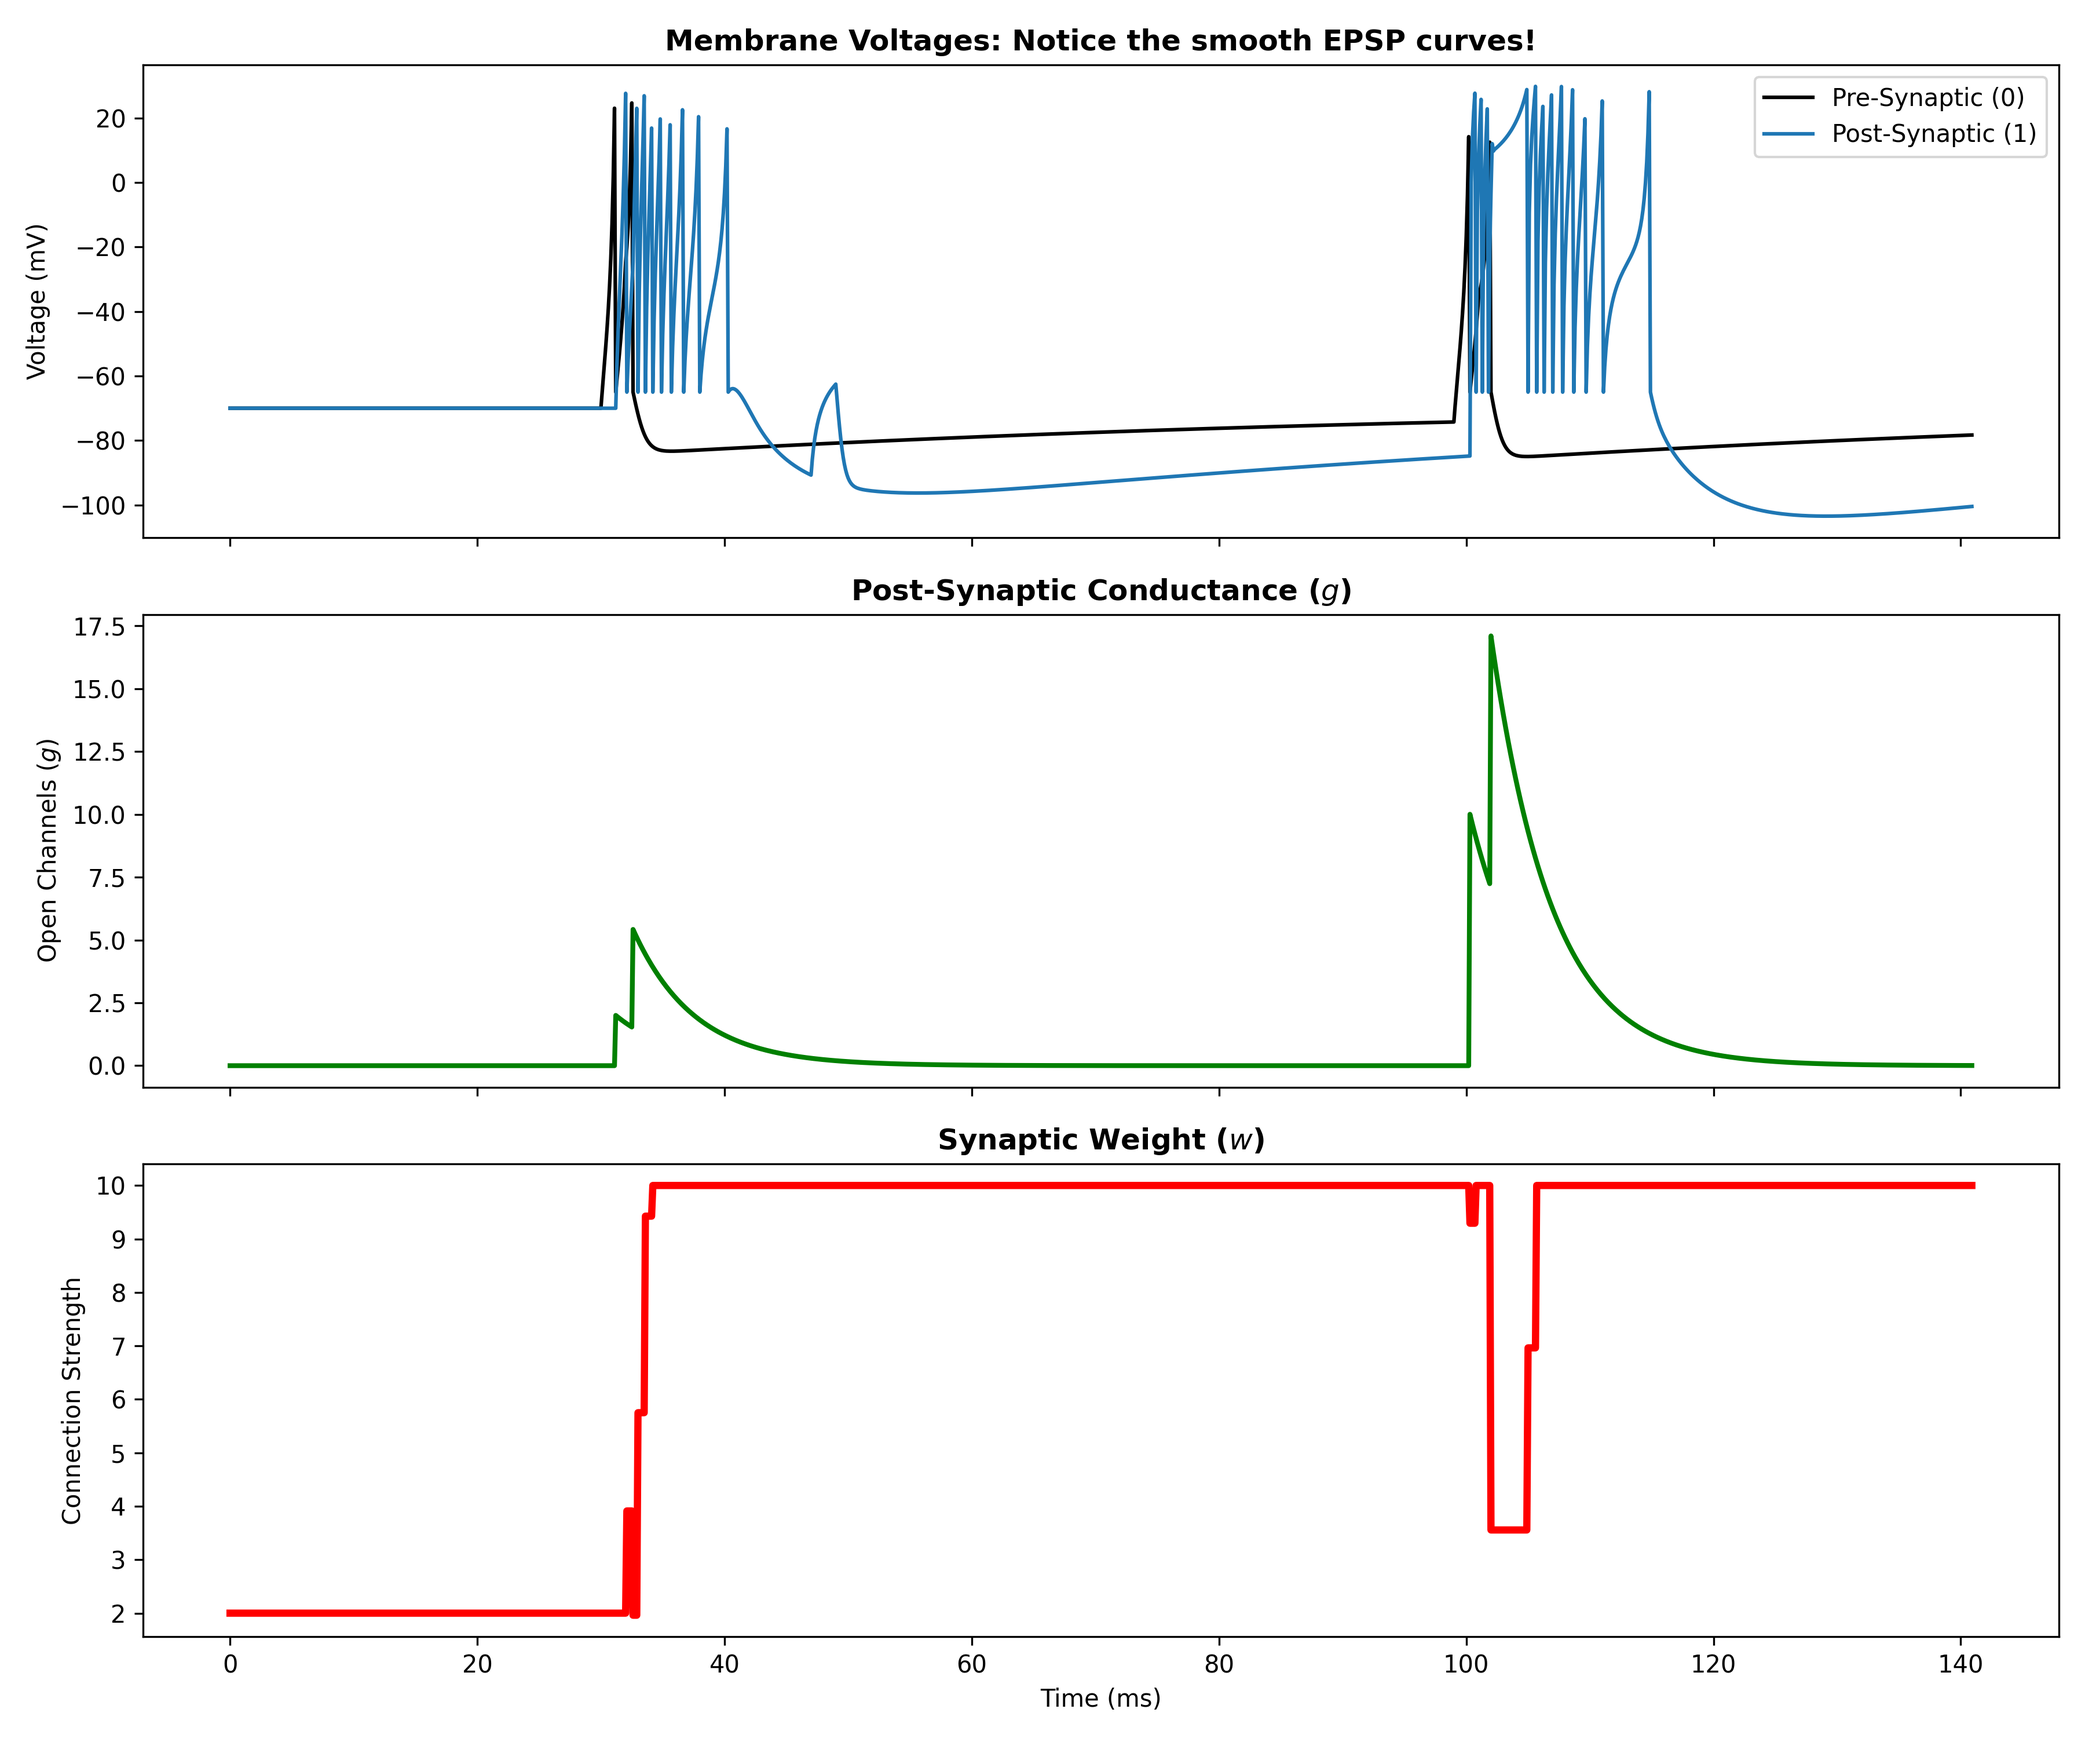
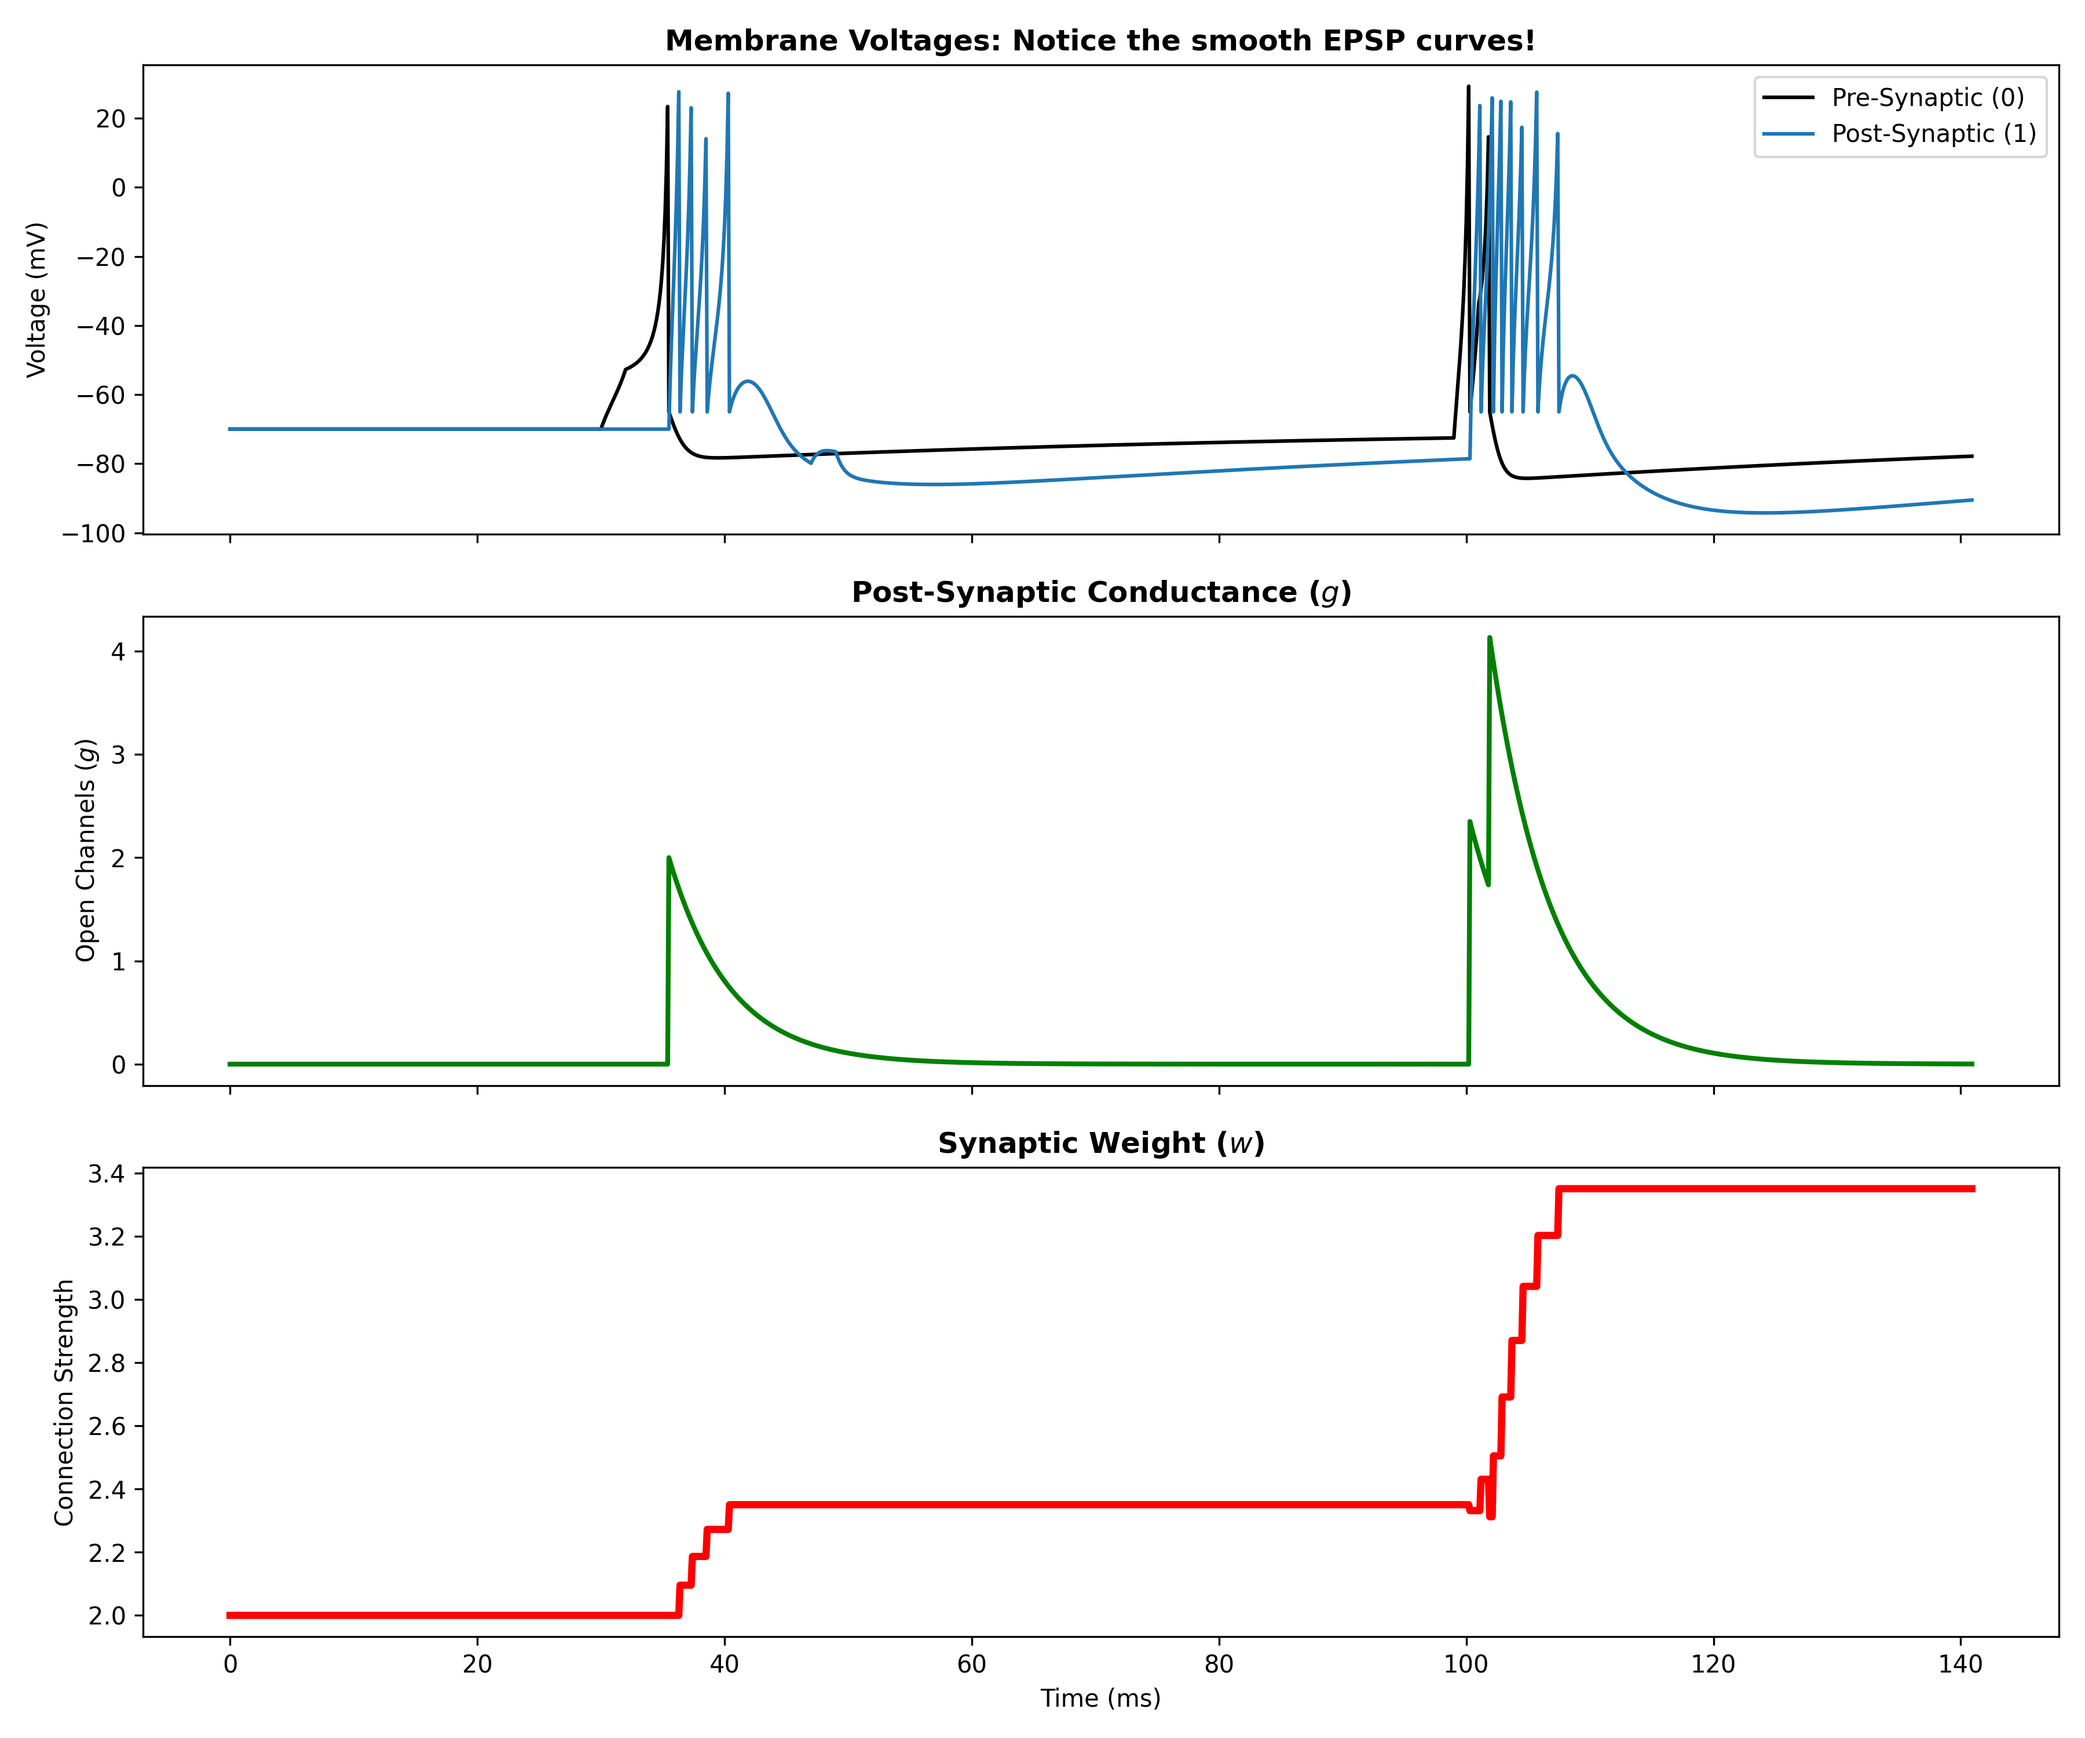
STDP learning window parameters

diff --git a/model.py b/model.py
@@ -94,7 +94,7 @@ class IzhikevichNeuronConductanceSynapse:
         self.group.c = c
         self.group.d = d
         
-        self.group.tau_g = 5*ms 
+        self.group.tau_g = 5*ms # time for neurotransmitters to clear
         self.group.E_eq = 0.0
         # Set initial resting state variables
         # Note: Using -70.0 (the math equilibrium) instead of 'c' 
@@ -112,7 +112,7 @@ class IzhikevichNeuronConductanceSynapse:
         self.group.I = current_value
 
 class ConductanceSTDPSynapse:
-    def __init__(self, pre_group, post_group, A_pre=2.0, A_post=-2.0, w_max=10.0):
+    def __init__(self, pre_group, post_group, A_pre=0.1, A_post=-0.105, w_max=10.0):
         """
         STDP synapse that triggers conductance (g) instead of raw voltage
         """
@@ -147,7 +147,7 @@ class ConductanceSTDPSynapse:
         self._Apost = A_post
         self._wmax = w_max
 
-    def connect(self, i, j, start_weight=5.0):
+    def connect(self, i, j, start_weight=2.0):
         """Helper function to connect indices and set starting weight"""
         self.synapses.connect(i=i, j=j)
         
@@ -158,57 +158,4 @@ class ConductanceSTDPSynapse:
         self.synapses.Apre = self._Apre
         self.synapses.Apost = self._Apost
         self.synapses.w = start_weight
-
-
-# class FluidIPNeuron:
-#     def __init__(self, N=1, C=100.0, k_param=0.7, v_r=-70.0, v_t_base=-40.0, a=0.03, b=-2.0, c=-50.0, d=100.0):
-#         """
-#         The 2007 Generalized Izhikevich Model with Novel Fluid Intrinsic Plasticity.
-#         All variables are dimensionless to match Phase 1 architecture perfectly.
-#         """
-#         self.eqs = '''
-#         dv/dt = (k_param*(v - v_r)*(v - v_t) - u + I) / (C * ms) : 1
-#         du/dt = (a*(b*(v - v_r) - u)) / ms : 1
-        
-#         # The Novelty: Fluid, asymptotically bounded E-S coupling
-#         v_t = v_t_base - 5.0 * tanh(k_IP * pos_delta_w) : 1
-        
-#         pos_delta_w = clip(w_total - w_base, 0.0, 10.0) : 1
-        
-#         w_total : 1
-#         I : 1
-#         k_param : 1
-#         v_r : 1
-#         v_t_base : 1
-#         a : 1
-#         b : 1
-#         c : 1
-#         d : 1
-#         C : 1
-#         k_IP : 1
-#         w_base : 1
-#         '''
-        
-#         self.group = NeuronGroup(N, model=self.eqs, threshold='v >= 20.0', reset='v = c; u += d', method='euler')
-        
-#         # Initialize Parameters (Dimensionless)
-#         self.group.k_param = k_param
-#         self.group.v_r = v_r
-#         self.group.v_t_base = v_t_base
-#         self.group.a = a
-#         self.group.b = b
-#         self.group.c = c
-#         self.group.d = d
-#         self.group.C = C
-#         self.group.k_IP = 0.5 
-#         self.group.w_base = 5.0
-        
-#         # Initialize Variables to Perfect Equilibrium
-#         self.group.v = v_r
-#         self.group.u = 0.0  # Because v = v_r, b*(v-v_r) = 0, so u rests perfectly at 0
-#         self.group.I = 0.0
-#         self.group.w_total = 5.0
-        
-#         self.state_monitor = StateMonitor(self.group, ['v', 'v_t'], record=True)
-#         self.spike_monitor = SpikeMonitor(self.group)
     

diff --git a/experiment_new.py b/experiment_new.py
@@ -32,7 +32,7 @@ def run_conductance_experiment():
 
     # PHASE 1: THE BASELINE EPSP
     print("Phase 1: Firing Pre-Neuron (Baseline EPSP)...")
-    neurons.group.I_ext[0] = 50.0  # Shock Neuron 0
+    neurons.group.I_ext[0] = 10.0  # Shock Neuron 0
     net.run(2*ms)
     neurons.group.I_ext[0] = 0.0   # Turn shock off
     
@@ -40,7 +40,7 @@ def run_conductance_experiment():
 
     # PHASE 2: THE LEARNING (LTP)
     print("Phase 2: Firing Post-Neuron (Triggering STDP LTP)...")
-    neurons.group.I_ext[1] = 50.0  # Shock Neuron 1
+    neurons.group.I_ext[1] = 10.0  # Shock Neuron 1
     net.run(2*ms)
     neurons.group.I_ext[1] = 0.0 
     
